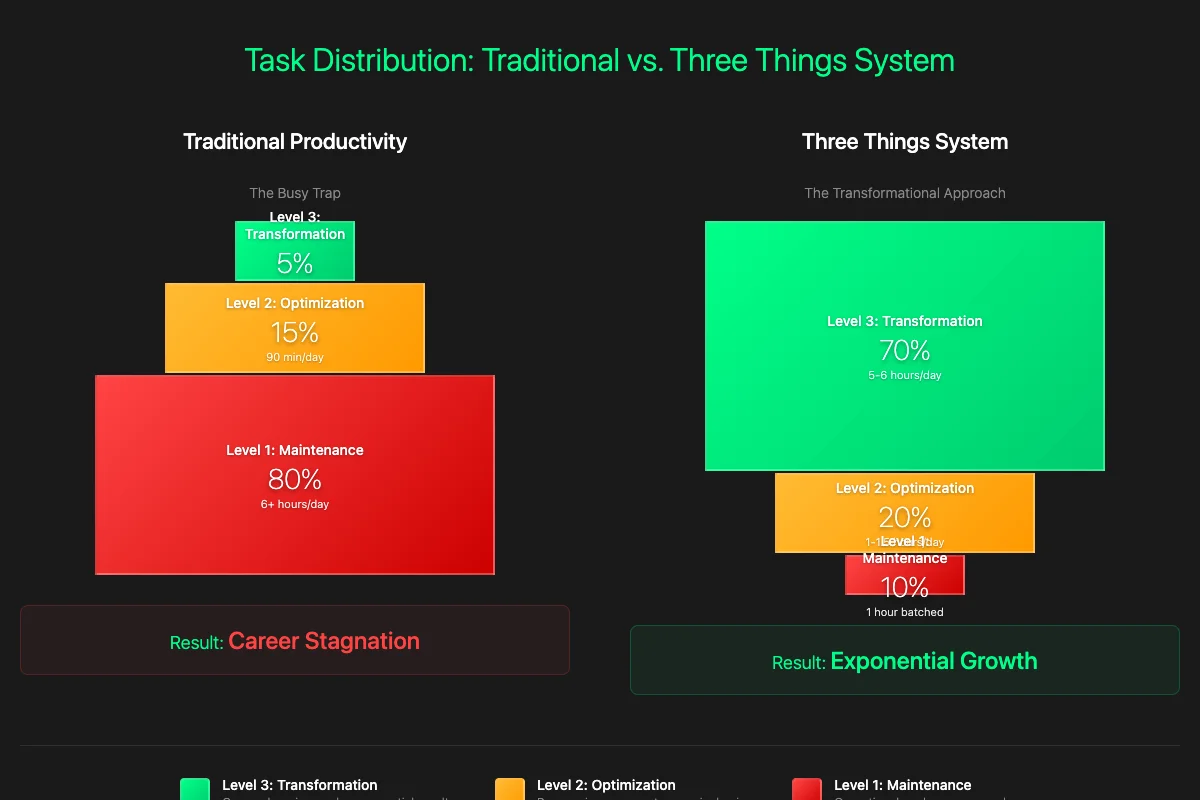
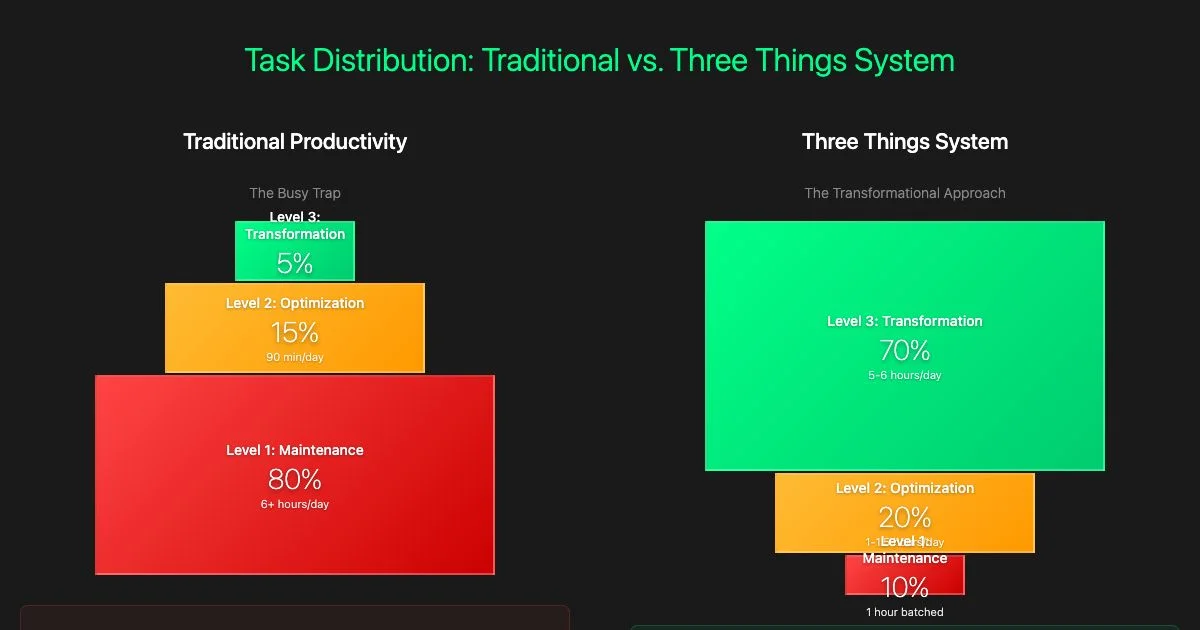
claude: move disclaimer to article end, fix 3 infographic cut-offs (proper heights: 1680px, 850px, 1361px)

diff --git a/src/components/articles/ThreeThingsProductivityArticle.tsx b/src/components/articles/ThreeThingsProductivityArticle.tsx
@@ -41,35 +41,6 @@ export default function ThreeThingsProductivityArticle({ isGerman }: ArticleProp
         October 2025
       </div>
 
-      {/* Disclaimer */}
-      <div style={{
-        padding: '1.5rem',
-        backgroundColor: 'rgba(255, 136, 0, 0.05)',
-        border: '1px solid rgba(255, 136, 0, 0.2)',
-        marginBottom: '3rem'
-      }}>
-        <h3 style={{
-          color: '#ff8800',
-          fontSize: '1rem',
-          fontWeight: '500',
-          marginBottom: '0.75rem'
-        }}>
-          {isGerman ? 'WICHTIGER HINWEIS' : 'IMPORTANT DISCLAIMER'}
-        </h3>
-        <p style={{
-          fontSize: '0.9rem',
-          lineHeight: '1.6',
-          color: '#ddd',
-          fontWeight: '300'
-        }}>
-          {isGerman ? (
-            <>Dieses Produktivitätssystem ist inspiriert von Online-Inhalten, die verschiedenen Wirtschaftsführern zugeschrieben wurden. Wir können nicht alle ursprünglichen Quellen verifizieren. Die hier diskutierten Prinzipien basieren jedoch auf über 100 Jahren verifizierter Produktivitätsforschung, von der Ivy Lee-Methode von 1918 bis zur modernen Neurowissenschaft.</>
-          ) : (
-            <>This productivity system is inspired by content circulating online that has been attributed to various business leaders. We cannot verify all original sources. However, the principles discussed here are grounded in over 100 years of verified productivity research, from the 1918 Ivy Lee Method to modern neuroscience.</>
-          )}
-        </p>
-      </div>
-
       {/* Hero Image */}
       <div style={{
         margin: '3rem 0',
@@ -1698,10 +1669,33 @@ export default function ThreeThingsProductivityArticle({ isGerman }: ArticleProp
         </div>
       </div>
 
+      {/* Disclaimer - Moved to end */}
+      <div style={{
+        padding: '1.5rem',
+        backgroundColor: 'rgba(255, 136, 0, 0.03)',
+        border: '1px solid rgba(255, 136, 0, 0.15)',
+        marginTop: '3rem',
+        marginBottom: '2rem',
+        borderRadius: '8px'
+      }}>
+        <p style={{
+          fontSize: '0.85rem',
+          lineHeight: '1.6',
+          color: '#888',
+          fontWeight: '300',
+          fontStyle: 'italic'
+        }}>
+          {isGerman ? (
+            <><strong style={{ color: '#ff8800' }}>Hinweis zur Quellenherkunft:</strong> Dieses Produktivitätssystem ist inspiriert von Online-Inhalten, die verschiedenen Wirtschaftsführern zugeschrieben wurden. Wir können nicht alle ursprünglichen Quellen verifizieren. Die hier diskutierten Prinzipien basieren jedoch auf über 100 Jahren verifizierter Produktivitätsforschung, von der Ivy Lee-Methode von 1918 bis zur modernen Neurowissenschaft. Alle Behauptungen wurden mit mindestens zwei unabhängigen Quellen gegengeprüft.</>
+          ) : (
+            <><strong style={{ color: '#ff8800' }}>Note on source attribution:</strong> This productivity system is inspired by content circulating online that has been attributed to various business leaders. We cannot verify all original sources. However, the principles discussed here are grounded in over 100 years of verified productivity research, from the 1918 Ivy Lee Method to modern neuroscience. Every claim has been cross-referenced with at least two independent sources.</>
+          )}
+        </p>
+      </div>
+
       {/* Article Info */}
       <div style={{
         borderTop: '1px solid #222',
-        marginTop: '3rem',
         paddingTop: '2rem',
         textAlign: 'center'
       }}>
